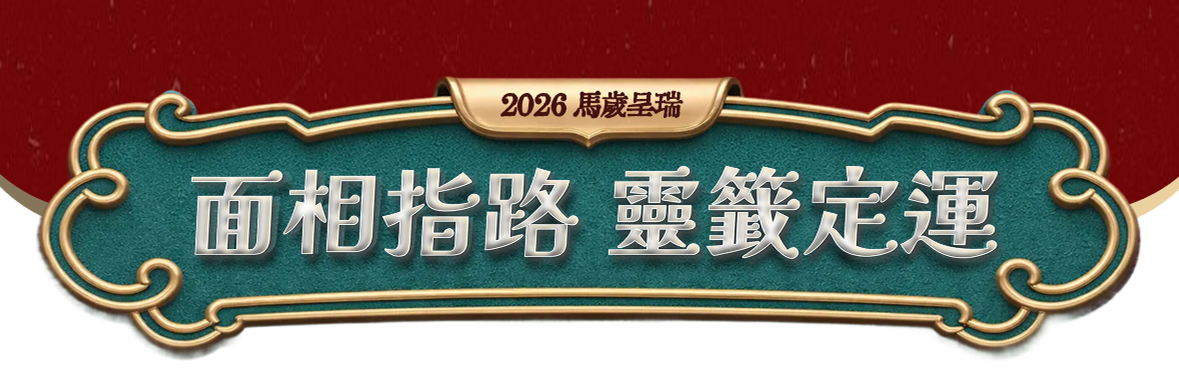
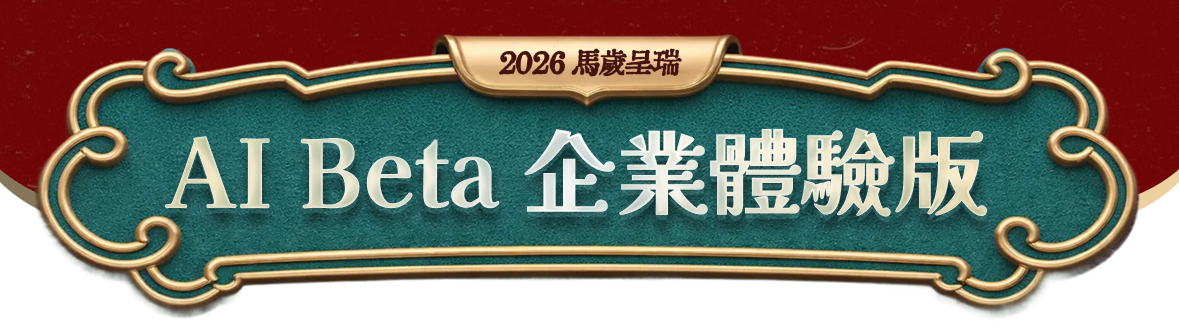
web版靈籤修改 1.頁面控制不用上下移動即可在同一頁看完，示意圖大小可調整 2.首頁新增「開始體驗」按鈕 3.靈籤logo大標改為企業體驗版，凸顯廣告後要給用戶是用這件事情 4.頁面中所有提到「fanpokka」的地方要改為「創造智能」 5.上傳圖片頁面，步驟2的靈籤籤筒省略，直接顯示開始抽籤按鈕 6.該頁面需要將作動固定在同一頁完成，不用上下滑動
＊請先把a1.art的api關掉，用固定已生成的圖片先顯示，避免測試前端流程時，花費不必要點數

diff --git a/resources/js/faceswap/components/FaceSwapUpload.vue b/resources/js/faceswap/components/FaceSwapUpload.vue
@@ -27,16 +27,8 @@
 
     <!-- Main Content Container -->
     <div class="flex-1 flex flex-col max-w-md mx-auto w-full px-5 pb-8">
-      <!-- 步驟一：上傳部分 -->
-      <div class="mb-8">
-        <div class="mb-4">
-          <img
-            :src="imageUrls.step1"
-            class="w-full h-auto object-contain"
-            alt="【步驟1】求籤前準備：呈上正面清晰照片"
-          />
-        </div>
-
+      <!-- 上傳區塊 -->
+      <div class="">
         <!-- Upload Area -->
         <div class="mb-4">
           <div
@@ -79,34 +71,17 @@
         <div class="mb-6">
           <h4 class="text-sm font-bold text-white mb-3 cp-font">求籤須知：</h4>
           <div class="text-[13px] font-normal text-white space-y-2 cp-font">
-            <div>1.上傳照片僅用於海報生成,不會改作他用</div>
+            <div>1.上傳照片僅用於海報生成，不會改作他用</div>
             <div>2.請上傳清晰、光線充足的照片以獲得最佳效果</div>
             <div>3.建議上傳正面或半側面照片</div>
             <div>4.活動期間生成的海報將保留於個人帳戶中</div>
-            <div>5.Fanpokka 保留活動最終解釋權</div>
+            <div>5.創造智能保留活動最終解釋權</div>
           </div>
         </div>
       </div>
 
-      <!-- 步驟二：閉眼默念新年願望 -->
+      <!-- 求籤區塊 -->
       <div class="mb-8">
-        <div class="mb-4">
-          <img
-            :src="imageUrls.step2"
-            class="w-full h-auto object-contain"
-            alt="【步驟2】抽取你的2026年運勢籤"
-          />
-        </div>
-        
-        <!-- 步驟二說明文字圖片 -->
-        <div class="mb-4 flex justify-center">
-          <img
-            :src="imageUrls.step2Instructions"
-            alt="閉上眼睛，默念你的新年願望。點擊下一步抽出靈籤"
-            class="w-[90%] h-auto object-contain"
-          />
-        </div>
-
         <!-- 求籤圖（可點擊觸發生成） -->
         <div class="flex justify-center items-center">
           <img
@@ -312,6 +287,20 @@ const minGifDuration = 7000; // 最少顯示 5 秒（毫秒）
 const taskStatusCheckInterval = ref(null);
 const currentTaskId = ref(null);
 const hasShownFailedAlert = ref(false); // 防止重複顯示失敗訊息
+
+// 是否啟用前端 Mock 生成模式（不實際呼叫 a1.art API）
+const isMockMode = computed(() => {
+  const flag = appConfig.useMockGeneratedImage;
+  if (typeof flag === 'string') {
+    return flag.toLowerCase() === 'true';
+  }
+  return !!flag;
+});
+
+// Mock 模式下要顯示的固定圖片路徑
+const mockGeneratedImagePath = computed(() => {
+  return appConfig.mockGeneratedImagePath || '/resources/images/test.jpg';
+});
 
 
 // 檢查是否為 dev_user（不受限制）
@@ -647,6 +636,44 @@ async function generateFaceSwap() {
     return;
   }
   
+  // Mock 模式：不實際呼叫生成 API，直接走動畫與固定圖片流程
+  if (isMockMode.value) {
+    // 立即設置生成狀態，防止重複點擊
+    isGenerating.value = true;
+    showFirstDialog.value = true;
+
+    // 紀錄這次生成開始時間（保持與正式流程一致）
+    const generationStartedAt = Date.now();
+    const mockTaskId = `mock_${generationStartedAt}`;
+
+    setTimeout(() => {
+      showFirstDialog.value = false;
+      showSecondDialog.value = true;
+      setTimeout(() => {
+        showSecondDialog.value = false;
+        showThirdDialog.value = true;
+
+        // 記錄 GIF 動畫開始顯示的時間
+        gifStartTime.value = Date.now();
+
+        // 在最少顯示時間後，結束動畫並導向結果頁
+        setTimeout(() => {
+          isGenerating.value = false;
+          showThirdDialog.value = false;
+
+          emit('generate', {
+            uploadedImage: uploadedImage.value,
+            taskId: mockTaskId,
+            startedAt: generationStartedAt,
+            mockImageUrl: mockGeneratedImagePath.value
+          });
+        }, minGifDuration);
+      }, 1000);
+    }, 1000);
+
+    return;
+  }
+
   // 立即設置生成狀態，防止重複點擊
   isGenerating.value = true;
   showFirstDialog.value = true;

diff --git a/resources/js/faceswap/App.vue b/resources/js/faceswap/App.vue
@@ -1,14 +1,17 @@
 <template>
   <!-- iphone15 -->
+  <!-- 固定背景層：填滿整個 viewport，解決左右留白問題 -->
+  <div 
+    class="fixed inset-0 -z-10"
+    :style="{ 
+      backgroundImage: `url(${imageUrls.background1})`, 
+      backgroundSize: 'cover', 
+      backgroundPosition: 'center', 
+      backgroundRepeat: 'no-repeat' 
+    }"
+  ></div>
+  
   <div class="relative max-w-[400px] mx-auto">
-    <!-- Email 版本專用徽章：只要是 Email 模式（非 LIFF）就顯示 -->
-    <img
-      v-if="isEmailMode"
-      :src="enterpriseIcon"
-      alt="AI Beta 企業體驗版"
-      class="absolute top-4 right-2 z-50 w-20 h-20"
-    />
-
     <div class="app">
       <!-- Email 表單頁面（Email 模式專用） -->
       <EmailForm
@@ -38,15 +41,16 @@
 
       <!-- Face Swap Result -->
       <FaceSwapResult
-        v-if="currentStep === 'result'"
-        :taskId="taskId"
-        :userId="userId"
-        :userUsage="userUsage"
-        :generationStartedAt="generationStartedAt"
-        :startWithHistory="startWithHistory"
-        @back="goBack"
-        @regenerate="handleRegenerate"
-        @download="handleDownload"
+      v-if="currentStep === 'result'"
+      :taskId="taskId"
+      :userId="userId"
+      :userUsage="userUsage"
+      :generationStartedAt="generationStartedAt"
+      :startWithHistory="startWithHistory"
+      :mockImageUrl="mockImageUrl"
+      @back="goBack"
+      @regenerate="handleRegenerate"
+      @download="handleDownload"
       />
     </div>
   </div>
@@ -63,7 +67,7 @@ import { liffService } from '../services/liffService.js'
 import { modeService } from '../services/modeService.js'
 import { API_CONFIG } from '../config/config.js'
 import { pushPageView } from '../utils/gtmService.js'
-import enterpriseIcon from '../../images/enterpriseicon.png'
+import { imageUrls } from '../config/imageUrls.js'
 
 // 狀態
 const taskId = ref('')
@@ -71,6 +75,7 @@ const userId = ref('') // 改為空字串，等待 LIFF 初始化
 const userName = ref('') // 用戶名稱
 const userInfo = ref(null) // 用戶資訊（Email 模式：name, company, phone）
 const generationStartedAt = ref(null) // 本次生成開始時間（用於 fallback 時間窗）
+const mockImageUrl = ref('') // Mock 模式下的固定結果圖片
 const currentStep = ref('faceswap-home') // 初始狀態設定為換臉首頁
 const isInitialized = ref(false)
 const userUsage = ref(0) // 用戶已生成的圖片數量
@@ -948,6 +953,8 @@ async function handleGenerate(data) {
   taskId.value = data.taskId
   // 保存本次生成開始時間（用於結果頁 fallback 判斷）
   generationStartedAt.value = data.startedAt || Date.now()
+  // 如果有傳入 mock 圖片路徑，保存起來給結果頁使用
+  mockImageUrl.value = data.mockImageUrl || ''
   // 從上傳流程進入結果頁，不預設顯示歷史
   startWithHistory.value = false
   

diff --git a/resources/js/faceswap/components/FaceSwapResult.vue b/resources/js/faceswap/components/FaceSwapResult.vue
@@ -170,6 +170,11 @@ const props = defineProps({
     type: Number,
     default: null
   },
+  // Mock 模式下，從上傳頁傳入的固定結果圖片 URL
+  mockImageUrl: {
+    type: String,
+    default: ''
+  },
   // 是否在載入時直接顯示歷史紀錄（從上傳頁點「抽籤紀錄」進來）
   startWithHistory: {
     type: Boolean,
@@ -204,6 +209,20 @@ const isDownloading = ref(false)
 
 // 任務狀態檢查定時器
 const taskStatusCheckInterval = ref(null)
+
+// Mock 模式開關與圖片路徑
+const isMockMode = computed(() => {
+  const flag = appConfig.useMockGeneratedImage
+  if (typeof flag === 'string') {
+    return flag.toLowerCase() === 'true'
+  }
+  return !!flag
+})
+
+const effectiveMockImageUrl = computed(() => {
+  if (!isMockMode.value) return ''
+  return props.mockImageUrl || appConfig.mockGeneratedImagePath || ''
+})
 
 // 顯示訊息函數
 function showMessage(message, type = 'info') {
@@ -333,6 +352,23 @@ async function shareViaWeb() {
 
 // 監聽taskId變化
 watch(() => props.taskId, (newTaskId, oldTaskId) => {
+  // Mock 模式：直接使用固定圖片，不呼叫任務狀態 API
+  if (isMockMode.value && effectiveMockImageUrl.value) {
+    clearTaskStatusInterval()
+    isTaskCompleted.value = true
+    error.value = null
+    const imageUrl = effectiveMockImageUrl.value
+    originalImages.value = [imageUrl]
+    generatedImages.value = [imageUrl]
+    taskResult.value = {
+      success: true,
+      id: newTaskId || 'mock_task',
+      status: 'completed',
+      images: [imageUrl]
+    }
+    return
+  }
+
   // 當 taskId 變化時，清除舊的定時器
   if (newTaskId !== oldTaskId) {
     clearTaskStatusInterval()
@@ -926,7 +962,21 @@ function handleImageLoad(event) {
 onMounted(() => {
   // 重置完成標記
   isTaskCompleted.value = false
-  if (props.taskId) {
+
+  // Mock 模式下，如果有固定圖片，直接顯示結果，不檢查任務狀態
+  if (isMockMode.value && effectiveMockImageUrl.value) {
+    const imageUrl = effectiveMockImageUrl.value
+    originalImages.value = [imageUrl]
+    generatedImages.value = [imageUrl]
+    taskResult.value = {
+      success: true,
+      id: props.taskId || 'mock_task',
+      status: 'completed',
+      images: [imageUrl]
+    }
+    isTaskCompleted.value = true
+    error.value = null
+  } else if (props.taskId) {
     checkTaskStatus()
   }
   

diff --git a/resources/js/config/imageUrls.js b/resources/js/config/imageUrls.js
@@ -1,6 +1,4 @@
 // 使用 Vite 的 import 語法來導入圖片，建置時會自動處理雜湊
-import step1Img from '../../images/step1.png'
-import step2Img from '../../images/step2.png'
 import horizontalImg from '../../images/horizontal.png'
 import backImg from '../../images/back.png'
 import header1Img from '../../images/header1.png'
@@ -9,7 +7,6 @@ import background1Img from '../../images/background1.png'
 import homepageImg from '../../images/homepage.png'
 import lotsImg from '../../images/lots.png'
 import nextImg from '../../images/next.png'
-import step2InstructionsImg from '../../images/Step2Instructions.png'
 import drawlotGif from '../../images/drawlot.gif'
 import drawlotTextImg from '../../images/drawlotText.png'
 import drawlotsbgImg from '../../images/drawlotsbg.png'
@@ -24,8 +21,6 @@ import enterpriseButtonGrayImg from '../../images/enterprisebuttongray.png'
 // 使用 Vite 的動態導入來獲取圖片 URL，建置時會自動處理雜湊
 export const imageUrls = {
   // 步驟圖片
-  step1: step1Img,
-  step2: step2Img,
   horizontal: horizontalImg,
   
   // 其他圖片
@@ -36,7 +31,6 @@ export const imageUrls = {
   homepage: homepageImg,
   lots: lotsImg,
   next: nextImg,
-  step2Instructions: step2InstructionsImg,
   drawlot: drawlotGif,
   drawlotText: drawlotTextImg,
   drawlotsbg: drawlotsbgImg,

diff --git a/resources/js/config/appConfig.js b/resources/js/config/appConfig.js
@@ -1,6 +1,32 @@
 // 應用程式配置
+const endpoint =
+  typeof window !== 'undefined' && window.endpoint ? window.endpoint : {}
+
+// 解析布林值（支援字串 'true'/'false'）
+function parseBoolean(value, defaultValue = false) {
+  if (typeof value === 'boolean') return value
+  if (typeof value === 'string') {
+    const lower = value.toLowerCase()
+    if (lower === 'true') return true
+    if (lower === 'false') return false
+  }
+  if (typeof value === 'number') {
+    return value !== 0
+  }
+  return defaultValue
+}
+
 export const appConfig = {
   // 每個用戶的最大生成數量限制
-  maxUsageLimit: 3
+  maxUsageLimit: 3,
+
+  // 是否在前端使用固定測試圖片，而不實際呼叫生成 API
+  // 可由 index.html 的 window.endpoint.useMockGeneratedImage 控制
+  useMockGeneratedImage: parseBoolean(endpoint.useMockGeneratedImage, false),
+
+  // 固定測試圖片路徑，可由 index.html 的 window.endpoint.mockGeneratedImagePath 控制
+  // 預設為 PM 提供的測試圖片
+  mockGeneratedImagePath:
+    endpoint.mockGeneratedImagePath || '/resources/images/test.jpg'
 }
 

diff --git a/index.html b/index.html
@@ -108,7 +108,14 @@
       // 模式：'auto' 自動偵測 | 'liff' 強制 LIFF 模式 | 'email' 強制 Email 模式
       // LIFF 版部署建議使用 'liff' 作為預設模式，確保在 LINE 內開啟時一律走 LIFF 流程
       // 如需在同一個 URL 測試 Email 版，可於網址加上 ?mode=email（URL 參數僅用於切換到 email 模式）
-      mode: 'liff'
+      mode: 'email',
+
+      // ===== 生成 API Mock 開關（測試用） =====
+      // 將此值設為 true：前端不會呼叫 a1.art 相關生成 API，而是直接使用固定測試圖片
+      // 將此值設為 false：恢復正常流程，實際呼叫生成 API
+      useMockGeneratedImage: true,
+      // 固定測試圖片路徑（PM 指定圖片），部署時可視實際路徑調整
+      mockGeneratedImagePath: '/resources/images/test.jpg'
     };
     
     // 動態設定 OG / LINE 圖片與 URL

diff --git a/resources/js/faceswap/components/FaceSwapHomepage.vue b/resources/js/faceswap/components/FaceSwapHomepage.vue
@@ -1,6 +1,6 @@
 <template>
   <div
-    class="relative mx-auto my-0 w-[375px] max-md:w-full max-md:max-w-screen-md max-sm:w-full cursor-pointer"
+    class="relative mx-auto my-0 w-[375px] max-md:w-full max-md:max-w-screen-md max-sm:w-full cursor-pointer flex items-center justify-center"
     @click="enterFaceSwap"
     :style="{ 
       minHeight: '100vh',
